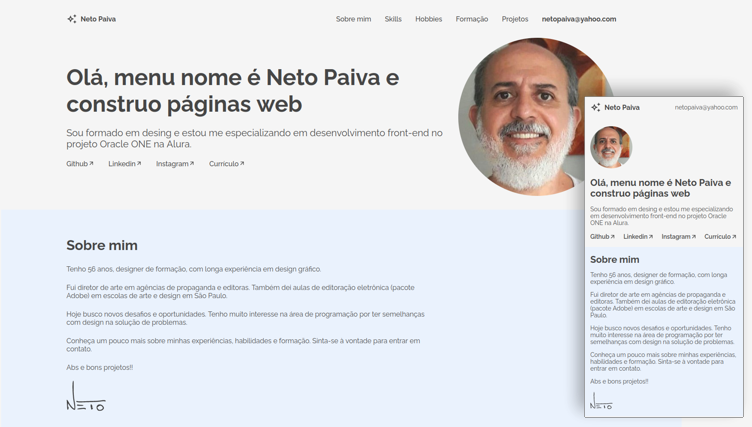
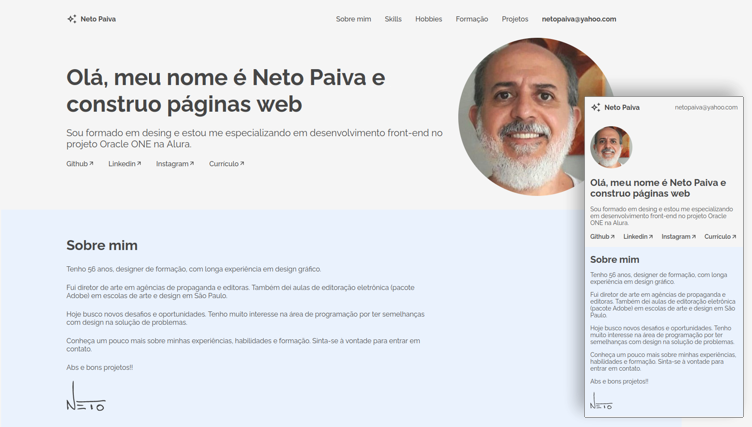
9a versão: ajustes/revisão final.

Changed region(s): [[0.1835, 0.1522, 0.5505, 0.2131], [0.8258, 0.3958, 0.9787, 0.4567]]

diff --git a/projeto-portfolio/index.html b/projeto-portfolio/index.html
@@ -62,7 +62,7 @@
    <aside class="aside__container">
       <img src="assets/imagens/netopaiva_foto.jpg" alt="Foto Neto Paiva" class="aside__foto">
       <div class="aside__descricao">
-         <h1 class="aside__titulo">Olá, menu nome é Neto Paiva e construo páginas web</h1>
+         <h1 class="aside__titulo">Olá, meu nome é Neto Paiva e construo páginas web</h1>
          <h2 class="asisde__subtitulo">Sou formado em desing e estou me especializando em desenvolvimento front-end no projeto Oracle ONE na Alura.</h2>
          <ul class="aside__lista">
             <li class="aside__lista__item"><a class="aside__lista__link" href="https://github.com/NetoPaiva"

diff --git a/projeto-portfolio/README.md b/projeto-portfolio/README.md
@@ -16,65 +16,29 @@ link da publicação do Portfolio: [https://netopaiva.github.io/challenge-portfo
     - Instrutores:
     
         - Ellen Prado Pimentel
-            - dev / instrutora Front-end (Alura)
-            - https://www.linkedin.com/in/ellen-p-pimentel/
-      
         - Wesley Bastos
-            - dev / instrutor Front-end (Alura)
-            - https://www.linkedin.com/in/wessbastos/
-            - https://www.instagram.com/wessbastos/
 
 -----
 
 
-### Sobre o desafio Portfolio
+### Sobre o desafio Portfolio: do Figma ao HTML e CSS com JS
 
-Com base no Challenge Based Learning (Apple)
-
-- 3 pilares da aprendizagem baseada em desafios
-    - Engajar (Trello/Discord)
-        - rotina de desenvolvimento
-        - comunicação
-    
-    - Investigar (cursos/pesquisas)
-        - material de estudos
-        - busca de soluções
-        - guia de conteúdo
-    
-    - Agir (GitHub/LinkedIn)
-        - desenvolver
-        - monitorar
-        - compartilhar
-
-
-#### Etapa Sprint 1 - Portfolio: do Figma ao HTML e CSS com JS
-
-  - Vídeo de apresentação
-  - Comunidade no Discord
-  - Quadro no Trello
-  - Modelo no Figma
-  - Projeto base no GitHub
+  - Criar portfolio de projetos Front-end
+  - Reproduzir com fidelidade layout apresentado
+  - Construir estrutura HTML
+  - Configurar estilos CSS
+  - Desenvolver funcionalidades JS
+  - Validar formulário com HTML e JS
   
-  - Ferramentas de desenvolvimento
+  - Conceitos de desenvolvimento
     - HTML semântico / acessível
     - CSS flex / responsivo
     - JS validação formulário
 
-
-#### Entrega do projeto
-
-  - Publicar repositório
-    "#challengeoneportfolio4"
-  - Publicar página no GitHub
-  - Preencher formulário de entrega
-  - Compartilhar projeto
-      "#Oracle #AluraLatam"
-
-
 ------
 
 
-### Links
+### Links do projeto
 
 
   - [Página do Challenge](https://www.alura.com.br/challenges/oracle-one-front-end/portfolio)
@@ -83,10 +47,20 @@ Com base no Challenge Based Learning (Apple)
 
   - [Layout Figma](https://www.figma.com/file/Mv4mSxBHzB5caI7bW2tLv6/Challenge-Front-end-Portf%C3%B3lio)
 
-  - [Repositório do projeto Portfolio](https://github.com/NetoPaiva/portfolio_challenge-t4f3.git)
+  - [Repositório do desenvolvimento do projeto Challenge Portfolio](https://github.com/NetoPaiva/portfolio_challenge-t4f3)
 
-  - [LinkedIn Alura](https://www.linkedin.com/company/alura-latam/mycompany/)
+  - [Repositório do projeto Portfolio publicado](https://github.com/NetoPaiva/challenge-portfolio)
+
+  - [Publicação do Portfolio finalizado](https://netopaiva.github.io/challenge-portfolio/)
 
 ----
+
+## Celebrar
+
+[![Beethoven: Symphony No. 9 In D Minor, Op. 125 - "Choral" - 3. Adagio molto e cantabile](https://img.youtube.com/vi/Iqu_51trOVI/0.jpg)](https://youtu.be/Iqu_51trOVI)
+
+Aperte o play: [Beethoven: Symphony No. 9 In D Minor, Op. 125 - "Choral" - 3. Adagio molto e cantabile](https://youtu.be/Iqu_51trOVI)
+
+
 
 /* --- fim ;)
